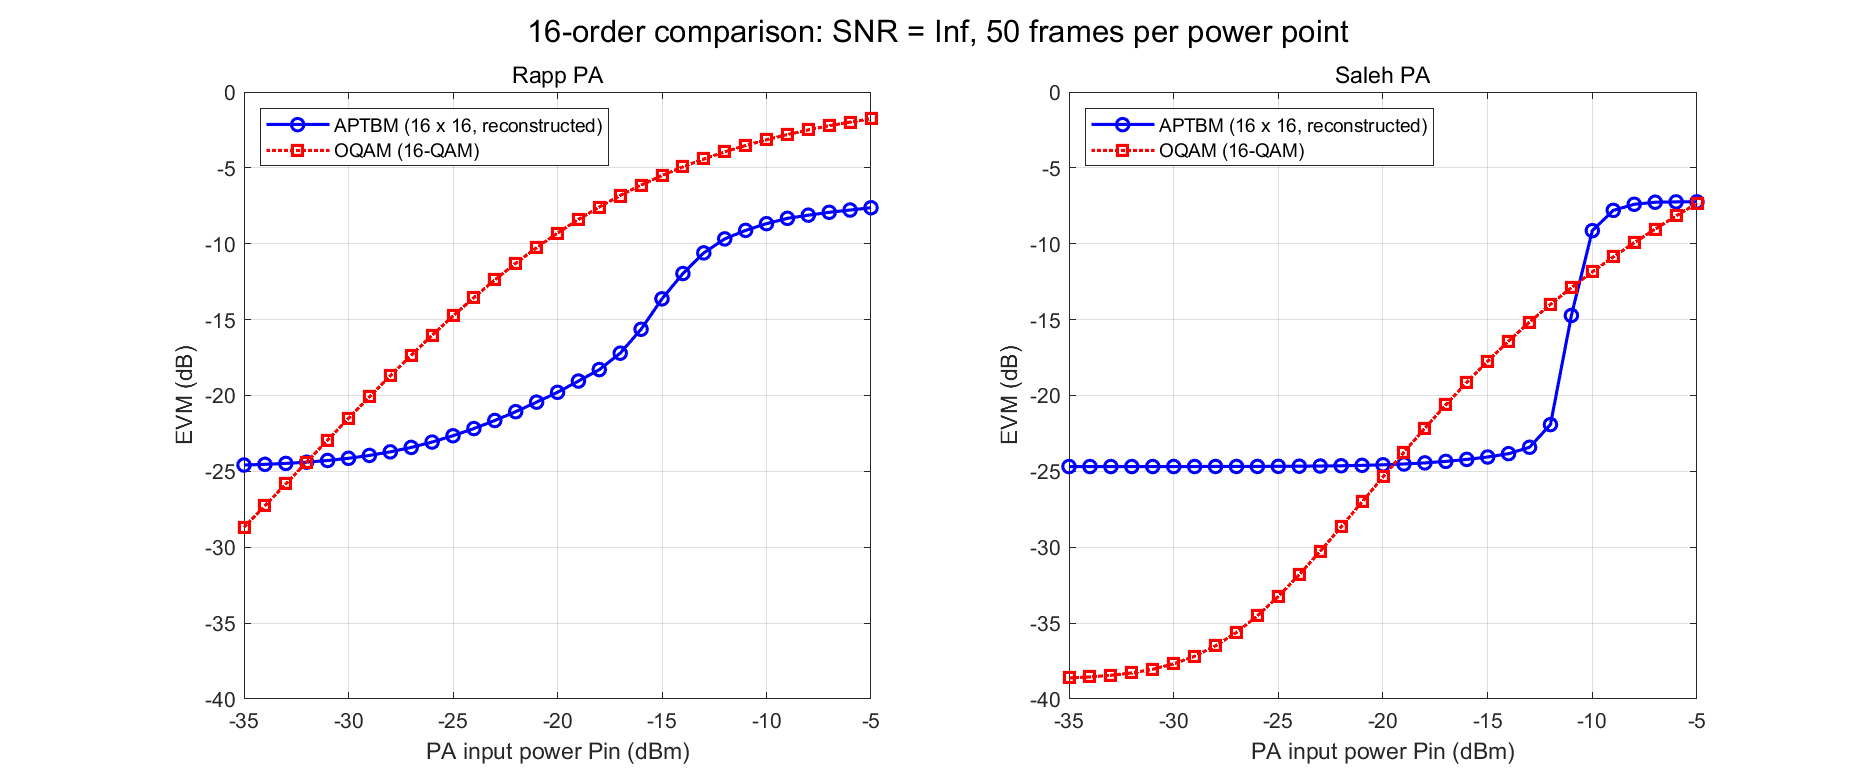
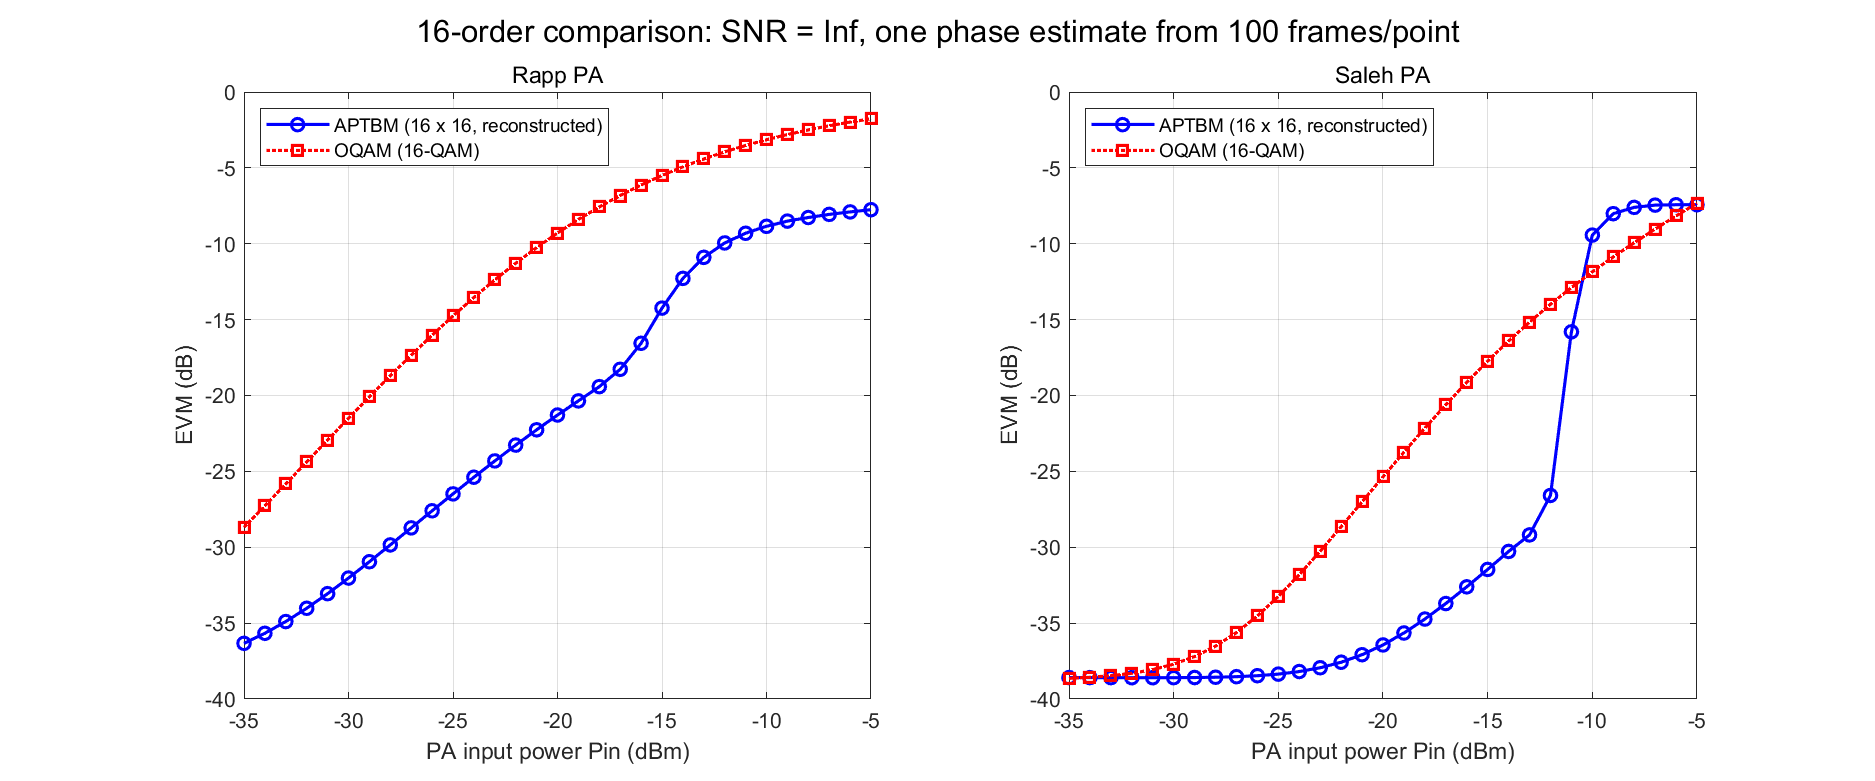
Pool APTBM phase estimation across 100-frame EVM and SER checks

diff --git a/rx/aptbm_reconstruct.m b/rx/aptbm_reconstruct.m
@@ -2,15 +2,16 @@ function [blocks_rec, block_phase_shift] = aptbm_reconstruct(blocks_rx, cfg, pre
 %APTBM_RECONSTRUCT 进行 APTBM 幅度与相位非线性自重构。
 %
 % 使用方法：blocks_rec = aptbm_reconstruct(blocks_rx, cfg);
-% 获取帧平均块旋转角：[blocks_rec, block_phase_shift] = aptbm_reconstruct(blocks_rx, cfg);
+% 获取统一平均块旋转角：[blocks_rec, block_phase_shift] = aptbm_reconstruct(blocks_rx, cfg);
 %
 % 输入：
-%   blocks_rx  已完成幅度校准的接收块矩阵，每行是 [y_a, y_b]。
+%   blocks_rx  同一工况下全部帧的接收块，按帧顺序拼成 N 行 2 列矩阵。
+%              每行是已完成幅度校准的 [y_a, y_b]。
 %   cfg        仿真参数结构体，提供块能量 P0、公共相位数 M 和权重参数 mu。
 %   previous_shift  仅为兼容旧接口保留，新方法不使用其数值计算相移。
 %
 % 输出：blocks_rec 为重构后的复符号块，尺寸及块排列顺序与输入相同。
-%       block_phase_shift 为仅根据当前帧、按式 (18) 计算的平均块旋转角。
+%       block_phase_shift 为根据全部输入接收块、按式 (18) 计算的一次平均块旋转角。
 %       none 模式输出原接收块，block_phase_shift 为 0。
 %
 % 'self' 依次执行幅度重构和相位重构，'none' 直接返回输入块。
@@ -19,7 +20,8 @@ function [blocks_rec, block_phase_shift] = aptbm_reconstruct(blocks_rx, cfg, pre
 % 当前链路已补偿 IBO 缩放和 PA 小信号增益，因此 P0 取码本块能量。
 % 相位按当前复基带约定使用弧度，以 amplitude*exp(1j*phase) 合成符号。
 % 按单位矢量角平分线建立局部坐标系，展开相位后严格按式 (18) 求均值。
-% 一次调用对应一帧，只计算一次整帧平均块旋转角，不跨帧或跨功率点跟踪。
+% 调用方先汇总同一工况的所有帧，本函数只估计一次旋转角并统一补偿。
+% 不同 PA、输入功率或 SNR 的接收块应分别调用，不混在一起统计。
 % 原去调制圆均值和相位分支跟踪方法完整注释保留在第 4 节。
 
 
@@ -112,7 +114,7 @@ amplitude_rec_a = weights .* amplitude_a + (1 - weights) .* cross_amplitude_a;
 amplitude_rec_b = weights .* cross_amplitude_b + (1 - weights) .* amplitude_b;
 
 
-%% 4. 几何防缠绕展开，并严格按式 (18) 计算当前帧平均块旋转角
+%% 4. 几何防缠绕展开，并按式 (18) 计算全部帧统一的平均块旋转角
 
 % 原方法：消除调制相位，求圆均值，并选择连续的相移分支。
 % 以下旧代码完整注释保留，不参与当前计算。
@@ -143,8 +145,8 @@ amplitude_rec_b = weights .* cross_amplitude_b + (1 - weights) .* amplitude_b;
 % block_phase_shift = wrapped_shift + branch_index * phase_period; % 选择最接近参考的分支。
 
 % 4.1 将两个接收符号归一化后相加，得到角平分线方向。
-ya = blocks_rx(:, 1);                      % 当前帧所有块的第一个接收符号。
-yb = blocks_rx(:, 2);                      % 当前帧所有块的第二个接收符号。
+ya = blocks_rx(:, 1);                      % 全部帧所有块的第一个接收符号。
+yb = blocks_rx(:, 2);                      % 全部帧所有块的第二个接收符号。
 v_mid = ya ./ (abs(ya) + eps) + yb ./ (abs(yb) + eps); % eps 防止除零。
 
 % 4.2 将角平分线的辐角映射到与公共 PSK 状态对应的 [0,2*pi) 区间。
@@ -159,9 +161,9 @@ psi_mid(idx_wrap) = psi_mid(idx_wrap) - 2 * pi;
 psi_ra = psi_mid + angle(ya .* exp(-1j * psi_mid));
 psi_rb = psi_mid + angle(yb .* exp(-1j * psi_mid));
 
-% 4.5 每帧只取一次均值，再减去式 (18) 的理论发送块相位均值。
+% 4.5 对全部帧的全部接收块只取一次均值，再减去式 (18) 的理论期望。
 phi_s_hat = mean(psi_ra + psi_rb) - 2 * pi * (num_phases - 1) / num_phases;
-block_phase_shift = phi_s_hat;             % 返回当前帧的平均块旋转角。
+block_phase_shift = phi_s_hat;             % 这一旋转角用于全部输入接收块的相位补偿。
 
 
 %% 5. 按式 (19) 分配相位补偿，并合成重构后的复符号

diff --git a/config/default_config.m b/config/default_config.m
@@ -95,7 +95,7 @@ cfg.channel.snr_reference = 'pa_output'; % 使用加噪前、匹配滤波前的 
 %% 6. 接收端参数
 % 假设载波同步、符号定时和块边界已知，仍需补偿收发滤波器总延迟。
 % 幅度重构使用已确认的式 (15) 交叉补偿解释，权重按式 (16)-(17) 计算。
-% 相位先按角平分线局部坐标系展开，每帧按式 (18) 独立估计平均块旋转角。
+% 相位先按角平分线局部坐标系展开，同一工况全部帧按式 (18) 统一估计一次旋转角。
 % 单符号补偿角按式 (19) 分配，不使用跨帧或跨功率点相移跟踪。
 % 输入为已完成幅度校准的接收块。
 

diff --git a/工程目录说明.md b/工程目录说明.md
@@ -42,7 +42,7 @@ APTBM_demo/
 │  ├─ sample_symbols.m             # APTBM：补偿总延迟并按符号间隔采样
 │  ├─ calibrate_gain.m             # 共用：补偿 IBO 缩放和 PA 小信号幅度增益
 │  ├─ deserialize_blocks.m         # APTBM：每两个连续符号重新组成一个块
-│  ├─ aptbm_reconstruct.m          # APTBM：幅度重构、几何防缠绕及式 (18) 逐帧平均旋转角估计
+│  ├─ aptbm_reconstruct.m          # APTBM：幅度重构、几何防缠绕及全部帧统一平均旋转角估计
 │  ├─ reconstruct_coarse.m         # [待实现] 预留其他方法的粗重构
 │  ├─ reconstruct_fine.m           # [待实现] 预留其他方法的精细重构
 │  ├─ aptbm_demap.m                # APTBM：双符号块联合检测，恢复比特
@@ -217,13 +217,13 @@ blocks_rec = aptbm_reconstruct(blocks_rx, cfg);
 
 相位重构严格按指定几何防缠绕步骤实现式 (18)：先将两个接收符号分别除以 `abs(y)+eps` 后相加，得到角平分线合矢量；将合矢量相角映射到 `[0,2*pi)`；对大于 `2*pi-pi/M` 的角度减去 `2*pi`，修正零状态的负向跨界。随后分别把两个符号旋转至以角平分线为正实轴的局部坐标系，提取局部张角并加回基准角，得到展开相位 `psi_ra`、`psi_rb`。
 
-每帧只计算一次 `mean(psi_ra+psi_rb)-2*pi*(M-1)/M`，作为该帧的平均块旋转角，再按式 (19) 的相对功率权重分配两个符号的补偿角。调用方式为：
+同一工况的所有帧接收块先按帧顺序拼成一个 N 行 2 列矩阵，再只计算一次 `mean(psi_ra+psi_rb)-2*pi*(M-1)/M`，作为全部帧共用的平均块旋转角。式 (19) 的相对功率权重仍按每个块分别计算，用这个统一旋转角分配两个符号的补偿角。调用方式为：
 
 ```matlab
-[blocks_rec, block_phase_shift] = aptbm_reconstruct(blocks_rx, cfg);
+[blocks_rec_all, block_phase_shift] = aptbm_reconstruct(blocks_rx_all, cfg);
 ```
 
-一次调用对应一帧，估计只使用当前接收帧与配置，不跨帧、跨功率点或跨 SNR 跟踪。原圆均值与分支跟踪方法完整注释保留在 `aptbm_reconstruct.m` 中，旧第三输入 `previous_shift` 为兼容接口保留，但不参与新方法计算。式 (18) 使用等概率发送的理论均值，因此有限随机帧的样本占比偏差仍会体现在估计中。
+一次调用汇总同一工况的全部接收帧，不同 PA、Pin 或 SNR 分开调用，不能混合统计。重构不读取发送真值；发送块只用于后续 EVM 或 SER 比较。这是等待全部帧收齐后统一处理的离线统计方式，不是逐帧实时处理。原圆均值与分支跟踪方法完整注释保留在 `aptbm_reconstruct.m` 中，旧第三输入 `previous_shift` 为兼容接口保留，但不参与新方法计算。式 (18) 使用等概率发送的理论均值，有限样本占比偏差仍可能影响估计。
 
 默认参数下，线性无噪声检查已经验证一帧发送和接收均为 8000 比特，误比特数为 0，BER 为 0。该结果对应上述理想线性检查条件；非线性 PA 下仍会存在需要重构模块处理的失真。
 
@@ -260,8 +260,8 @@ check_received_constellation;
 | `check_oqam_linear_link.m` | 单符号检查 I/Q 错位与采样；随机帧使用线性 PA、IBO 6 dB、SNR 为 `Inf` | 命令行显示采样位置、I/Q 判决错误数和 BER |
 | `check_linear_ber_snr.m` | 线性 PA、IBO 6 dB，逐 SNR 固定仿真 50 帧，每帧共用一份比特 | `results/linear_ber_snr.png`，可选返回累计统计结构体 |
 | `check_papr_ccdf.m` | 默认 10000 帧，每帧共用比特，在 RRC 成形后、PA 前统计两种波形 PAPR | `results/papr_ccdf.png`，可选返回每帧 PAPR 及经验 CCDF |
-| `check_evm_input_power.m` | SNR 为 `Inf`，Pin 为 `-35:1:-5` dBm，每点 50 帧；比较 OQAM 与 APTBM 自重构 EVM | `results/evm_input_power.png`，左 Rapp、右 Saleh |
-| `check_nonlinear_ser_snr.m` | Rapp Pin=-20 dBm、Saleh Pin=-13 dBm，SNR 为 `0:2:40` dB，每点 50 帧 | `results/nonlinear_ser_snr.png`，左 Rapp、右 Saleh |
+| `check_evm_input_power.m` | SNR 为 `Inf`，Pin 为 `-35:1:-5` dBm，每点 100 帧；比较 OQAM 与 APTBM 自重构 EVM | `results/evm_input_power.png`，左 Rapp、右 Saleh |
+| `check_nonlinear_ser_snr.m` | Rapp Pin=-20 dBm、Saleh Pin=-13 dBm，SNR 为 `0:2:40` dB，每点 100 帧 | `results/nonlinear_ser_snr.png`，左 Rapp、右 Saleh |
 
 绘图检查均使用固定文件名，重复运行时覆盖各自的 PNG，其他已有结果图片保留。检查函数各自在入口设置随机种子，基础收发模块沿用当前随机数状态。
 
@@ -410,15 +410,15 @@ startup;
 results = check_evm_input_power();
 ```
 
-`check_evm_input_power.m` 比较 16×16 APTBM 自重构结果与 16-QAM OQAM，设置 `cfg.channel.snr_db = Inf`，PA 输入平均功率扫描 `-35:1:-5` dBm，每个功率点默认统计 50 帧。每帧只生成一次比特和两种成形波形，所有模型、所有功率点共用该帧数据；APTBM 显式使用 `self` 重构。
+`check_evm_input_power.m` 比较 16×16 APTBM 自重构结果与 16-QAM OQAM，设置 `cfg.channel.snr_db = Inf`，PA 输入平均功率扫描 `-35:1:-5` dBm，每个功率点默认统计 100 帧。每帧只生成一次比特和两种成形波形，所有模型、所有功率点共用该帧数据；APTBM 显式使用 `self` 重构。
 
 PA 数字模型的模平方数值采用 mW 标度，目标输入功率为 `10^(Pin_dBm/10)`，调用已有 IBO 模块前按 `IBO = 10*log10(Pref/目标输入功率)` 换算。Rapp 和 Saleh 各使用自身参考功率，因此同一 Pin 对应的 IBO 不同；程序检查两种波形的实际 PA 输入平均功率均达到目标。平均时包含完整成形波形尾部。
 
-接收端完成匹配滤波、理想采样及已知线性增益校准，APTBM 还进行幅度与相位自重构。按论文式 (27)-(28)，EVM 为 `10*log10(累计误差能量/累计发送符号能量)`，其中复数误差模平方已包含 I/Q 两维，APTBM 的分子与分母均计入每块两个符号。先累计 50 帧的线性能量再取对数，不平均各帧的 dB 数值，也不对接收符号做硬判决或额外拟合幅相。
+接收端完成匹配滤波、理想采样及已知线性增益校准，APTBM 还进行幅度与相位自重构。按论文式 (27)-(28)，EVM 为 `10*log10(累计误差能量/累计发送符号能量)`，其中复数误差模平方已包含 I/Q 两维，APTBM 的分子与分母均计入每块两个符号。先累计 100 帧的线性能量再取对数，不平均各帧的 dB 数值，也不对接收符号做硬判决或额外拟合幅相。
 
 无噪声消除了 AWGN 的影响，有限长度 RRC 的残余码间干扰和自重构的估计误差仍保留。输出图片为 `results/evm_input_power.png`，左图 Rapp、右图 Saleh，每个子图仅包含两条曲线，纵轴范围相同。可选返回结果包含功率、IBO、模型名称、帧数、累计能量、两种方案的 EVM 和平均块相移 `mean_block_phase_shift`，不额外保存数据文件。
 
-EVM 扫描对每帧、每种 PA、每个功率点的接收块分别调用重构函数，独立按式 (18) 计算一次平均块旋转角，不再传入上一个功率点的相移。`mean_block_phase_shift` 仅用于汇总各点的帧估计结果，不作为后续重构的参考。更改重构方法后，需重新运行本检查更新 EVM 图片，旧圆均值方法的数值结果不作为当前方法的验证结果。
+EVM 扫描用单元数组分别缓存每种 PA、每个输入功率点的全部 100 帧接收块。收齐后，每个工况只调用一次重构函数，输入默认是 100000×2 接收块矩阵，统一计算一个平均块旋转角并补偿全部帧。`mean_block_phase_shift` 返回每个工况的这一个旋转角，不再表示逐帧估计结果的平均值。不同 PA 或 Pin 不混合统计，也不传递上一个功率点的相移。
 
 非线性固定工作点的 SER-SNR 对比运行方式为：
 
@@ -427,11 +427,11 @@ startup;
 results = check_nonlinear_ser_snr();
 ```
 
-`check_nonlinear_ser_snr.m` 使用 16×16 APTBM 与 16-QAM OQAM，Rapp 的输入平均功率固定为 −20 dBm，Saleh 为 −13 dBm，对应 IBO 分别为 5 dB、13 dB。SNR 扫描 `0:2:40` dB，每个点固定仿真 50 帧；每帧只生成一次比特，两种调制与两种 PA 共用，信道噪声独立生成。
+`check_nonlinear_ser_snr.m` 使用 16×16 APTBM 与 16-QAM OQAM，Rapp 的输入平均功率固定为 −20 dBm，Saleh 为 −13 dBm，对应 IBO 分别为 5 dB、13 dB。SNR 扫描 `0:2:40` dB，每个点固定仿真 100 帧；每帧只生成一次比特，两种调制与两种 PA 共用，信道噪声独立生成。
 
-SER 按复符号统计。APTBM 自重构后进行双符号块联合检测，分别比较检测块中的 a、b 与原发送符号；OQAM 比较检测到的 QAM 复符号。默认每帧两种方案均发送 2000 个复符号，每个模型、每个 SNR 下各累计 100000 个复符号，再以累计符号错误数除以累计发送符号数计算 SER。
+SER 按复符号统计。APTBM 自重构后进行双符号块联合检测，分别比较检测块中的 a、b 与原发送符号；OQAM 比较检测到的 QAM 复符号。默认每帧两种方案均发送 2000 个复符号，每个模型、每个 SNR 下各累计 200000 个复符号，再以累计符号错误数除以累计发送符号数计算 SER。
 
-APTBM 对每帧含噪接收块独立进行几何防缠绕，并按式 (18) 估计一次平均块旋转角，不使用校准相位分支或跨 SNR 跟踪，也不读取待测发送数据和无噪声接收结果估计相移。OQAM 沿用已有幅度校准和星座检测，不增加相位补偿。
+APTBM 在每个 SNR 点分别缓存两种 PA 下全部 100 帧的含噪接收块，收齐后每种 PA 只进行一次统一重构，再联合检测全部块并累计 SER。默认每次重构输入为 100000×2，共 200000 个复符号。不同 PA、不同 SNR 分开估计，不使用校准相位分支或跨 SNR 跟踪，也不读取待测发送数据和无噪声接收结果估计相移。OQAM 沿用逐帧幅度校准、星座检测与错误累计方式。
 
 图片保存为 `results/nonlinear_ser_snr.png`，左图 Rapp、右图 Saleh，每个子图两条曲线。沿用零误码处停止绘图的约定，所有 SNR 的统计结果仍完整保留。可选输出包括模型、输入功率、IBO、SNR、帧数、平均估计块相移、两种方案的错误符号数、总符号数与 SER。更改重构方法后，需重新运行本检查更新 SER 图片。
 

diff --git a/README.md b/README.md
@@ -36,9 +36,9 @@ ser_results = check_nonlinear_ser_snr();
 | SNR | 匹配滤波前、PA 输出端的采样点平均功率与复噪声功率之比 |
 | 线性 BER | SNR 为 `0:1:20` dB，每点 50 帧 |
 | PAPR–CCDF | 成形后、PA 前统计，共 10000 帧 |
-| EVM | SNR 为 `Inf`，Pin 为 `-35:1:-5` dBm，每点 50 帧 |
-| 非线性 SER | Rapp Pin 为 −20 dBm，Saleh Pin 为 −13 dBm；SNR 为 `0:2:40` dB，每点 50 帧 |
+| EVM | SNR 为 `Inf`，Pin 为 `-35:1:-5` dBm，每点 100 帧 |
+| 非线性 SER | Rapp Pin 为 −20 dBm，Saleh Pin 为 −13 dBm；SNR 为 `0:2:40` dB，每点 100 帧 |
 
-APTBM 当前按角平分线局部坐标系展开相位，每帧独立按论文式 (18) 计算平均块旋转角，再按式 (19) 分配相位补偿。原圆均值与分支跟踪代码已在 `rx/aptbm_reconstruct.m` 中注释保留。
+APTBM 当前按角平分线局部坐标系展开相位，EVM 和非线性 SER 检查将同一工况的全部 100 帧接收块汇总，按论文式 (18) 统一计算一次平均块旋转角，再按式 (19) 补偿全部帧。不同 PA、输入功率及 SNR 分开统计。原圆均值与分支跟踪代码已在 `rx/aptbm_reconstruct.m` 中注释保留。
 
 工程包含已实现的基础模块和待实现模块的目录规划，具体以工程说明中的状态标注为准。结果反映当前实现和有限帧统计，相关相位估计约定与限制见工程说明。
